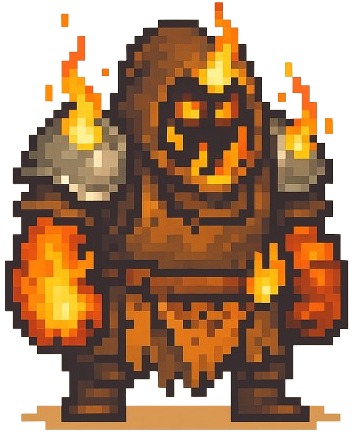
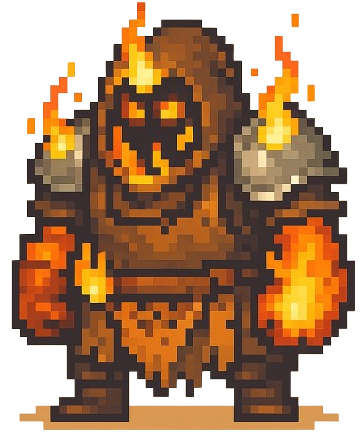
Change boss texture

diff --git a/core/src/main/java/com/mygdx/darkknight/enemies/ShortAttackEnemy.java b/core/src/main/java/com/mygdx/darkknight/enemies/ShortAttackEnemy.java
@@ -16,6 +16,7 @@ public class ShortAttackEnemy extends Enemy {
     private static final float MAX_ATTACK_FORWARD_DISTANCE = 12f;
     private static final float BACK_TIME = 0.3f;
     private static final float ATTACK_TIME = 0.15f;
+    private static final float MIN_DISTANCE_FOR_FLIP = 30f; // Мінімальна відстань для фліпу
 
     private boolean isAttacking = false;
     private boolean isMovingBack = false;
@@ -54,8 +55,11 @@ public class ShortAttackEnemy extends Enemy {
         if (isAttacking) {
             handleAttackMovement(delta);
         } else {
-            // Встановлюємо фліп на основі напрямку руху, якщо не атакуємо
-            if (ai instanceof ShortAttackAI) {
+            // Перевіряємо відстань до героя
+            float distanceToHero = Vector2.dst(getCenterX(), getCenterY(), hero.getCenterX(), hero.getCenterY());
+
+            // Встановлюємо фліп на основі напрямку руху, тільки якщо відстань більша за мінімальну
+            if (distanceToHero > MIN_DISTANCE_FOR_FLIP && ai instanceof ShortAttackAI) {
                 ShortAttackAI shortAttackAI = (ShortAttackAI) ai;
                 float dx = shortAttackAI.getLastDx(); // Отримуємо dx із AI (припускаємо, що ShortAttackAI має метод getLastDx)
                 if (dx != 0) {

diff --git a/core/src/main/java/com/mygdx/darkknight/TbGame.java b/core/src/main/java/com/mygdx/darkknight/TbGame.java
@@ -138,12 +138,12 @@ public class TbGame implements Screen {
         Weapon axe = new AxeWeapon("core/assets/axeEpic.png", 3, 32, 32);
         Weapon mace = new MaceWeapon("core/assets/mace.png", 3, 32, 32, "core/assets/maceHit.png",32);
         weapon = sword;
-        hero = new Hero("core/assets/hero1.png",154*32, (600-480)*32, 100, 10, sword);
+        hero = new Hero("core/assets/hero1.png",11*32, (600-595)*32, 100, 10, sword);
         //150 : 88 Королева
         //156 : 318 Jester
         //154 : 480 Butcher
         //11 : 595
-        hero.addWeapon(axe, magic, wizard,  bow);
+        hero.addWeapon(axe, magic, wizard,  bow, mace);
 
 
         fightLevels.add(new FirstLevel(3130, 70, 640, 380, gameMap, bullets, enemiesToAdd));
